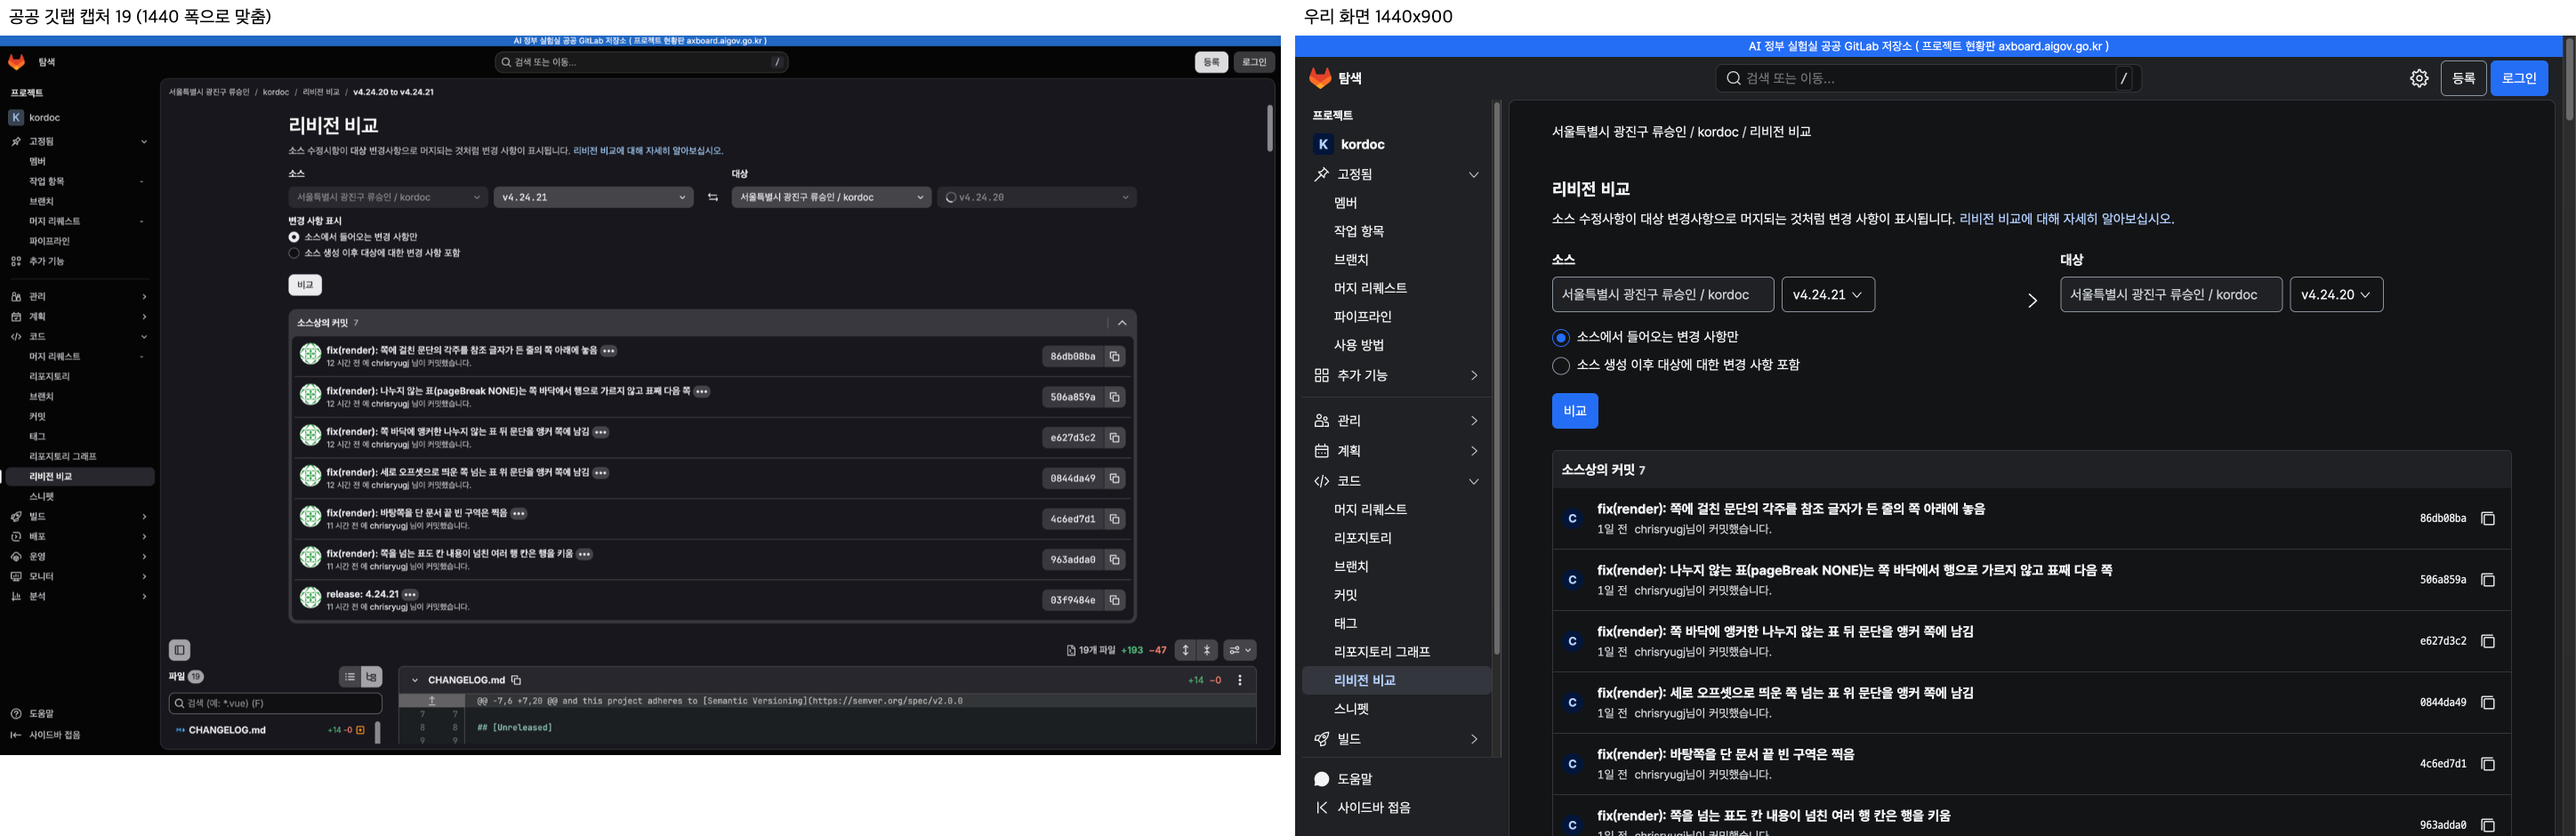
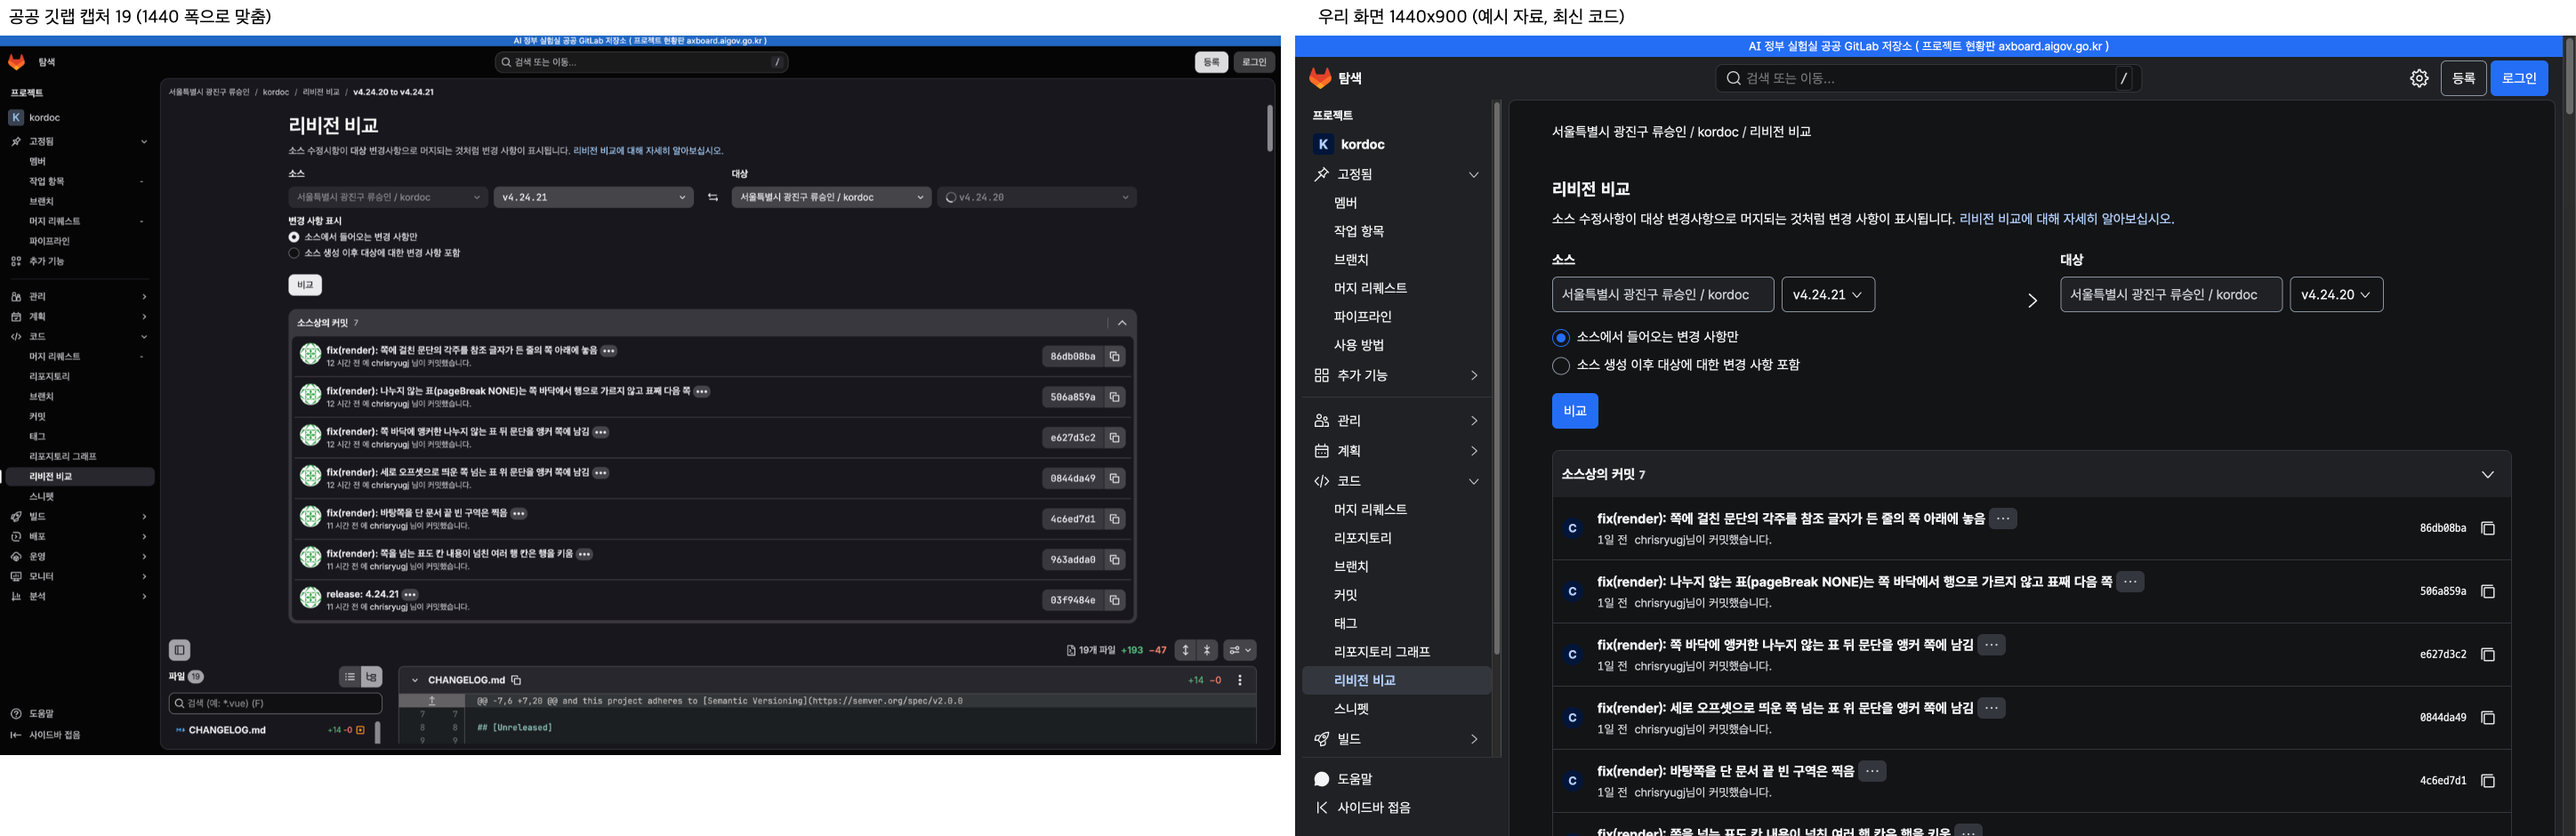
C1 P06 점 세 개와 최근 검색, 트리 접힘 단추(34), 새 작업 항목 구조(제목, 설명, 오른쪽 속성 열), 저장 불가 문구, 비교 이미지 4장 재생성

diff --git a/app/src/screens/P24_NewIssue.jsx b/app/src/screens/P24_NewIssue.jsx
@@ -4,6 +4,8 @@
 import { useEffect, useState } from 'react';
 import { Link, useParams, useSearchParams } from 'react-router-dom';
 import { t } from '../copy/ko';
+import { g } from '../copy/gl';
+import './gl/gl.css';
 import { gitlab, STATIC_MODE as isStatic } from '../api/client';
 import { useData } from '../api/useData';
 import { ProjectFrame, useProject } from '../components/Layout/ProjectFrame';
@@ -66,7 +68,7 @@ function Result({ kind, onClose }) {
     <div className="rb-modal-dim" role="presentation">
       <div className="rb-modal" role="dialog" aria-modal="true" aria-labelledby="issue-result">
         <h2 id="issue-result" className="krds-text-body-small-bold">{t.Write_cannotTitle}</h2>
-        <p className="krds-text-body-small">{isStatic ? t.Write_cannotStatic : t.Write_cannotLogin}</p>
+        <p className="krds-text-body-small">{isStatic ? g.noSave : t.Write_cannotLogin}</p>
         <p className="krds-text-body-xsmall rb-subtle">{t.fn.writeKind(kind)}</p>
         <div className="rb-modal-actions">
           <button type="button" className="krds-btn small tertiary" onClick={onClose}>{t.Commit_cancel}</button>
@@ -112,7 +114,7 @@ export default function NewIssue({ kind = 'issue' }) {
   return (
     <ProjectFrame screenId={kind === 'merge' ? 'R-16' : 'R-11'} tab="" tabLabel={screenTitle} data={frame} state="Ideal">
       <div className="rb-write">
-        <h2 className="krds-text-body-small-bold">{screenTitle}</h2>
+        <h1 className="gl-title">{screenTitle}</h1>
 
         {kind === 'merge' ? (
           <section className="rb-compare-pick" aria-label={t.Issue_comparePick}>
@@ -156,18 +158,29 @@ export default function NewIssue({ kind = 'issue' }) {
           </section>
         ) : null}
 
+        <div className={kind === 'issue' ? 'gl-newitem' : 'gl-newitem-flat'}>
+        <div className="gl-newitem-main">
         <FormField id="issue-title" label={t.Issue_titleLabel} required value={title} onChange={(e) => setTitle(e.target.value)} hint={t.Issue_titleHint} />
         <MarkdownField id="issue-body" label={t.Issue_bodyLabel} value={body} onChange={setBody} hint={t.Issue_bodyHint} />
 
         <div className="rb-write-actions">
           <Link className="krds-btn small tertiary" to={`/projects/${id}/${kind === 'merge' ? 'merge-requests' : 'issues'}`}>{t.Commit_cancel}</Link>
           <button type="button" className="krds-btn small primary" disabled={!title.trim()} onClick={() => setDone(true)}>
-            {kind === 'merge' ? t.Issue_submitMerge : t.Issue_submitIssue}
+            {kind === 'merge' ? t.Issue_submitMerge : g.createItem}
           </button>
         </div>
         {kind === 'issue' && frame.data.project.created_at ? (
           <p className="krds-text-body-xsmall rb-subtle">{t.fn.issueSince(day(frame.data.project.created_at))}</p>
         ) : null}
+        </div>
+        {kind === 'issue' ? (
+          <aside className="gl-newitem-side" aria-label={g.sidePanel}>
+            {[[g.assignee], [g.labels], [g.milestone]].map(([n]) => (
+              <div key={n} className="gl-sidefield"><p className="gl-side-title">{n}</p><p className="gl-sidenone">{g.noneSet}</p></div>
+            ))}
+          </aside>
+        ) : null}
+        </div>
       </div>
       {done ? <Result kind={screenTitle} onClose={() => setDone(false)} /> : null}
     </ProjectFrame>

diff --git a/app/src/screens/P06_Changes.jsx b/app/src/screens/P06_Changes.jsx
@@ -9,11 +9,13 @@ import { ProjectFrame, useProject } from '../components/Layout/ProjectFrame';
 import { EmptyState, Status } from '../components/Feedback/Status';
 import { Icon } from '../components/Code/Icon';
 import { IconButton } from '../components/Action/IconButton';
+import { newWindow } from '../components/Layout/newWindow';
 import { Menu } from '../components/Navigation/Menu';
 import { Avatar } from '../components/Layout/Avatar';
 import { orgLabel } from '../components/Layout/orgLabel';
 import { enc, groupByDay } from './parts/repoCommon';
 import { CopyButton, FilterField } from './gl/parts';
+import { readPref, writePref } from '../app/prefs';
 import './gl/gl.css';
 import '../components/Code/code.css';
 
@@ -52,6 +54,8 @@ export default function Changes() {
   const [next, setNext] = useState(null);
   const [q, setQ] = useState('');
   const [openIds, setOpenIds] = useState({});
+  const [recent, setRecent] = useState(() => { try { return JSON.parse(readPref('rb-commit-recent') || '[]'); } catch { return []; } });
+  const remember = (v) => { const s = v.trim(); if (s.length < 1) return; const n = [s, ...recent.filter((x) => x !== s)].slice(0, 5); setRecent(n); writePref('rb-commit-recent', JSON.stringify(n)); };
   const list = useData(async () => {
     const r = await gitlab.commits(frame.id, { path, ref });
     setExtra([]);
@@ -99,13 +103,21 @@ export default function Changes() {
         </div>
         <div className="gl-head">
           <h1 className="gl-title">{g.histTitle}</h1>
+          <div className="gl-head-actions"><Menu label={g.moreOpts} align="right" toggle={false} btnClass="krds-btn text rb-iconbtn is-small" button={<Icon name="ellipsis_vertical" />}>{(close) => (<ul className="drop-list"><li><a className="item-link" href={`${project.web_url}/-/commits/${encodeURIComponent(cur)}?format=atom`} {...newWindow(g.rss)} onClick={close}>{g.rss}</a></li></ul>)}</Menu></div>
         </div>
         {path ? (
           <p className="gl-ref-meta"><code className="rb-break-any">{path}</code><Link className="krds-link" to={`/projects/${frame.id}/changes`}>{t.P06_clearFilter}</Link></p>
         ) : null}
         <div className="gl-bar is-alone">
-          <IconButton icon="time" label={g.histRecent} size="small" />
-          <FilterField value={q} onChange={setQ} placeholder={g.histFilter} />
+          <Menu label={g.histRecent} align="left" btnClass="krds-btn text rb-iconbtn is-small" button={<Icon name="time" label={g.histRecent} />}>
+            {(close) => (
+              <ul className="drop-list" aria-label={g.histRecent}>
+                <li><p className="rb-menu-title">{g.histRecent}</p></li>
+                {recent.length ? recent.map((r) => <li key={r}><button type="button" className="item-link" onClick={() => { close(); setQ(r); }}>{r}</button></li>) : <li><p className="rb-menu-title">{g.noRecent}</p></li>}
+              </ul>
+            )}
+          </Menu>
+          <div className="gl-grow" onKeyDown={(e) => { if (e.key === 'Enter') remember(q); }}><FilterField value={q} onChange={setQ} placeholder={g.histFilter} /></div>
         </div>
         {!list.data ? (
           <Status {...list} />

diff --git a/app/src/screens/gl/gl.css b/app/src/screens/gl/gl.css
@@ -189,3 +189,12 @@
 .gl-expand { display: inline-flex; align-items: center; justify-content: center; width: var(--rb-side-item-h); height: var(--krds-number-10); border: 0; background: none; color: var(--krds-color-text-subtle); cursor: pointer; }
 .gl-expand:hover { color: var(--krds-color-text-basic); }
 .gl-box-titlebar { display: flex; align-items: center; justify-content: space-between; }
+
+/* 새 작업 항목: 왼쪽 양식 + 오른쪽 속성 열 */
+.gl-newitem { display: grid; grid-template-columns: minmax(0, 3fr) minmax(0, 1fr); gap: var(--rb-gutter); align-items: start; }
+.gl-newitem-flat { display: block; }
+.gl-newitem-main { display: flex; flex-direction: column; gap: var(--krds-gap-5); min-width: 0; }
+.gl-newitem-side { display: flex; flex-direction: column; gap: var(--krds-gap-5); min-width: 0; }
+.gl-sidefield { display: flex; flex-direction: column; gap: var(--krds-gap-2); padding-bottom: var(--krds-padding-4); border-bottom: var(--krds-border-width-static-regular) solid var(--krds-color-border-gray-light); }
+.gl-sidenone { margin: 0; font-size: var(--rb-step-15); color: var(--krds-color-text-subtle); }
+@media (max-width: 1023px) { .gl-newitem { grid-template-columns: minmax(0, 1fr); } }

diff --git a/app/src/screens/P23_Write.jsx b/app/src/screens/P23_Write.jsx
@@ -3,6 +3,7 @@
 import { useEffect, useState } from 'react';
 import { Link, useNavigate, useParams, useSearchParams } from 'react-router-dom';
 import { t } from '../copy/ko';
+import { g } from '../copy/gl';
 import { gitlab, STATIC_MODE as isStatic } from '../api/client';
 import { ProjectFrame, useProject } from '../components/Layout/ProjectFrame';
 import { FormField } from '../components/Input/FormField';
@@ -19,7 +20,7 @@ function Result({ kind, onClose }) {
     <div className="rb-modal-dim" role="presentation">
       <div className="rb-modal" role="dialog" aria-modal="true" aria-labelledby="write-result">
         <h2 id="write-result" className="krds-text-body-small-bold">{t.Write_cannotTitle}</h2>
-        <p className="krds-text-body-small">{isStatic ? t.Write_cannotStatic : t.Write_cannotLogin}</p>
+        <p className="krds-text-body-small">{isStatic ? g.noSave : t.Write_cannotLogin}</p>
         <p className="krds-text-body-xsmall rb-subtle">{t.fn.writeKind(t[`Write_kind_${kind}`])}</p>
         <div className="rb-modal-actions">
           <button type="button" className="krds-btn small tertiary" onClick={onClose}>{t.Commit_cancel}</button>

diff --git a/app/src/screens/P16_Code.jsx b/app/src/screens/P16_Code.jsx
@@ -236,12 +236,7 @@ export default function Code() {
         <div className="rb-code-area">
           <div className="rb-toolbar" data-figma="toolbar">
             <div className="rb-toolbar-left">
-              {path && treeWide ? (
-                <button type="button" className="krds-btn small tertiary" title={`${u.Tree_toggle} (B)`} aria-expanded={treeOpen} aria-keyshortcuts="B" onClick={() => setTreeOpen(!treeOpen)}>
-                  <Icon name="view_all" />
-                  <span>{u.Tree_toggle}</span>
-                </button>
-              ) : null}
+              {path && treeWide && !treeOpen ? <GlIconButton icon="panel_open" label={g.treeShow} size="medium" title={`${g.treeShow} (B)`} aria-keyshortcuts="B" onClick={() => setTreeOpen(true)} /> : null}
               <BranchSelect id={frame.id} current={ref} branches={branches} path={path} />
               {isHome ? (
                 <span className="rb-toolbar-path krds-text-body-small-bold">{project.path}</span>

diff --git a/app/src/copy/gl.js b/app/src/copy/gl.js
@@ -123,6 +123,14 @@ export const g = {
   collapseBox: '소스상의 커밋 접기',
   expandBox: '소스상의 커밋 펼침',
   loadingRef: '불러오는 중',
+  sidePanel: '작업 항목 속성',
+  noRecent: '최근 검색이 없습니다',
+  noSave: '시험판에서는 저장할 수 없습니다',
+  assignee: '담당자',
+  labels: '라벨',
+  milestone: '마일스톤',
+  noneSet: '없음',
+  createItem: '작업 항목 만들기',
   lines: (n) => `${n}줄`,
   lineLink: (n) => `${n}번 줄 링크`,
 };
